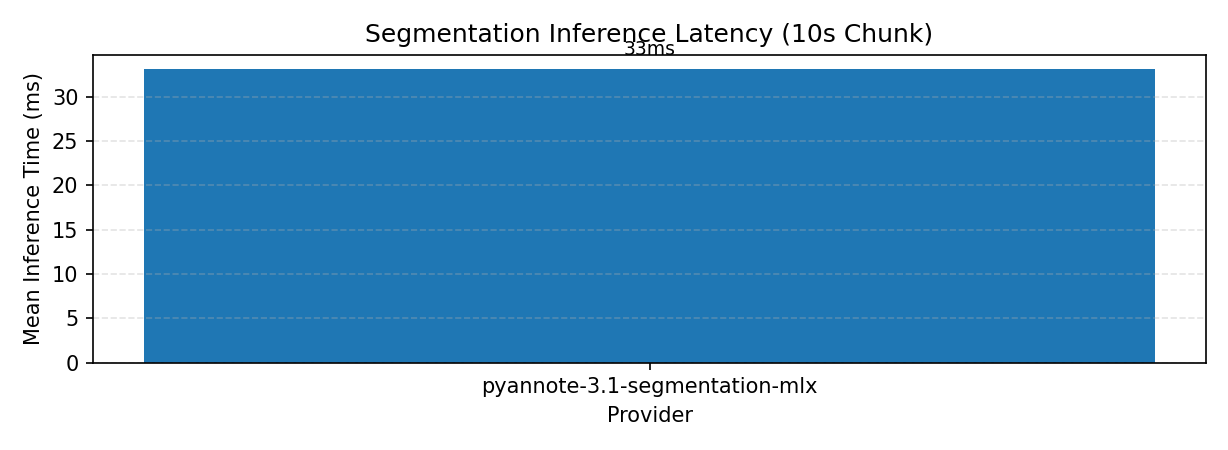
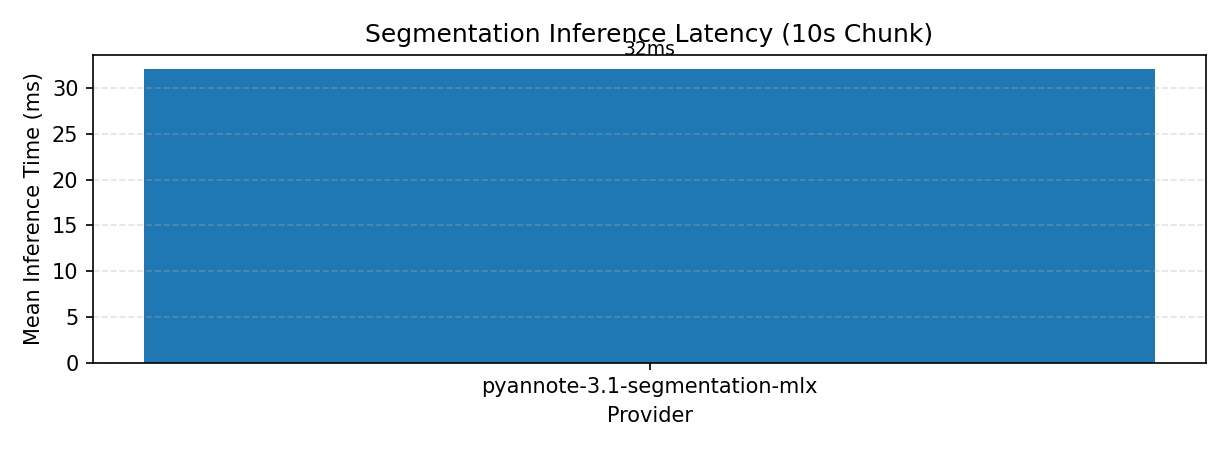
docs: mark project as AI-Agent developed, update benchmark

diff --git a/README.md b/README.md
@@ -1,5 +1,10 @@
 # MirrorNote Diarization MLX
 
+> 🧠 **AI-Agent Developed** — The performance optimizations in this project
+> (Metal threadgroup-parallel LSTM kernel, max-pool vectorization) were
+> iteratively designed, implemented, and benchmarked by Agent. See [Optimization history](#optimization-history)
+> for the full progression from 189ms → 31.6ms.
+
 Local speaker diarization experiments for MirrorNote.
 
 This repository starts with an oracle-first path: run `pyannote/speaker-diarization-3.1` as the reference implementation, normalize its output into MirrorNote's artifact contract, and only then port the proven path to MLX.
@@ -188,3 +193,12 @@ Result files:
 The breakthrough came from writing a custom **threadgroup-parallel Metal kernel** (`src/mirrornote_diarization/lstm_metal.py`) that processes the LSTM recurrence with 128 GPU threads over the hidden dimension, synchronized via threadgroup barriers between timesteps. This eliminates the Python-level loop overhead that limited both `nn.LSTM` and the manual implementation.
 
 PyTorch MPS (56ms) relies on Apple's MPSGraph native LSTM kernel. MLX 0.31.2 does not ship an equivalent, but `mx.fast.metal_kernel` allowed us to write one — and the custom kernel turned out faster than MPSGraph for this model size (batch=1, hidden=128, 589 timesteps).
+
+---
+
+## Built With
+
+- **Agent** — performance optimization, Metal kernel authoring, benchmarking
+- **MLX 0.31.2** — Apple Silicon array framework, `mx.fast.metal_kernel`
+- **PyTorch + pyannote.audio 3.1** — reference oracle implementation
+- **Python 3.12** — uv-managed project
